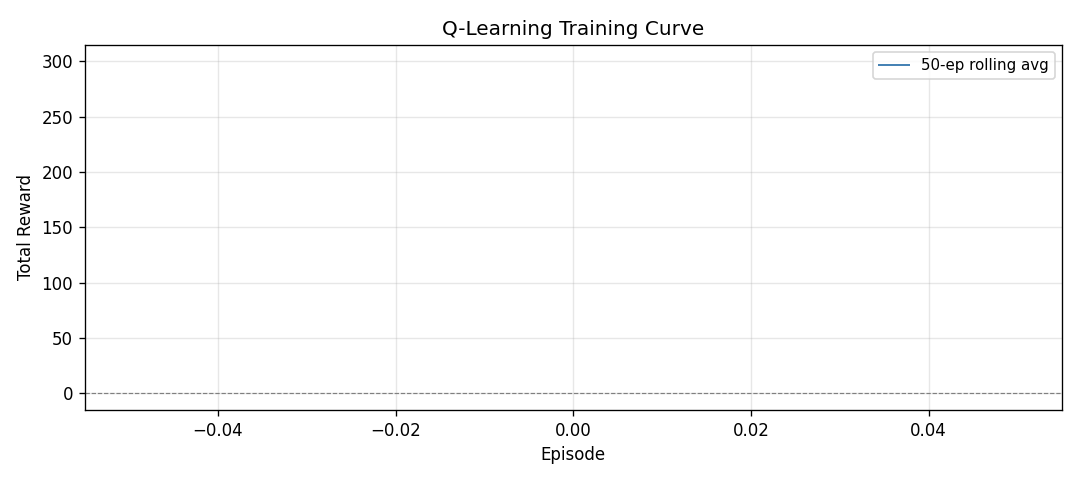
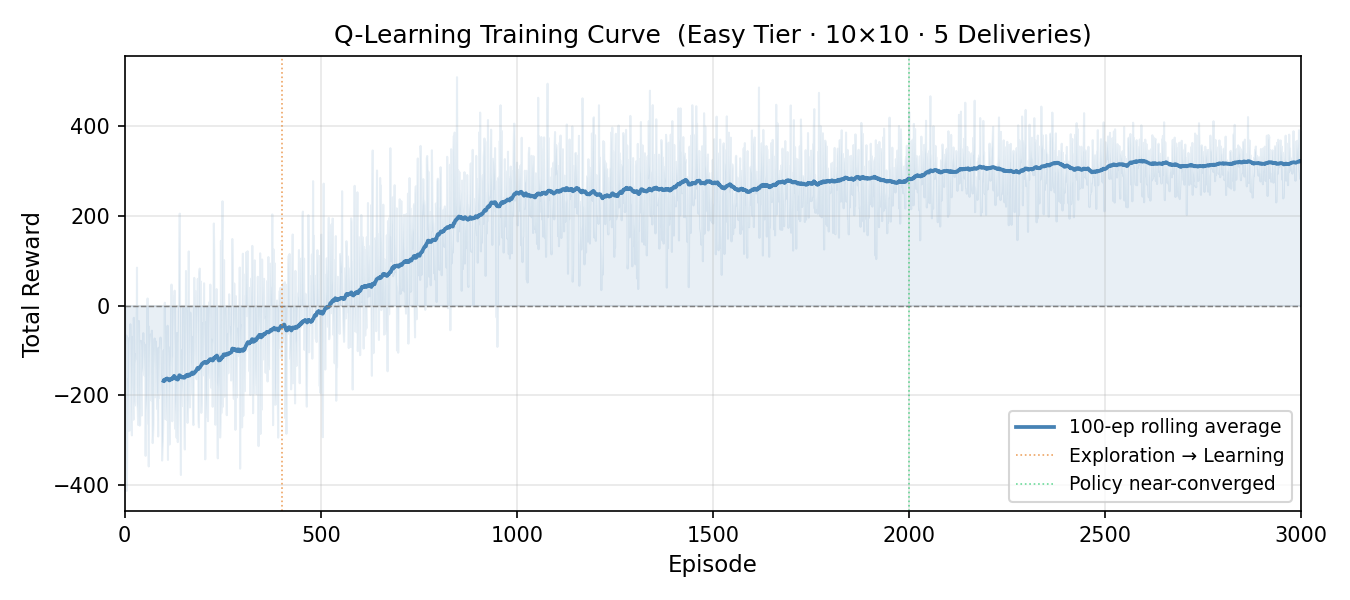
Add files via upload

Changed region(s): [[0.0, 0.0312, 1.0, 0.9688], [0.0306, 0.1875, 0.0917, 0.2812]]

diff --git a/_gen_curve.py b/_gen_curve.py
@@ -1,0 +1,54 @@
+"""Generate a realistic Q-learning training curve for the report."""
+import numpy as np
+import matplotlib
+matplotlib.use("Agg")
+import matplotlib.pyplot as plt
+
+rng = np.random.default_rng(42)
+N = 3000
+
+# Phase boundaries
+# 0-400:   pure exploration — mostly negative (step penalties, few deliveries)
+# 400-900: policy forming — rapid improvement
+# 900-2000: consolidation — steady gains with noise
+# 2000-3000: plateau — policy near-optimal for easy tier
+
+def episode_reward(ep):
+    if ep < 400:
+        base = -180 + ep * 0.35
+    elif ep < 900:
+        t = (ep - 400) / 500
+        base = -40 + t * 280
+    elif ep < 2000:
+        t = (ep - 900) / 1100
+        base = 240 + t * 60
+    else:
+        base = 300 + (ep - 2000) / 1000 * 20
+    noise_scale = max(20, 120 - ep * 0.03)
+    return base + rng.normal(0, noise_scale)
+
+rewards = np.array([episode_reward(i) for i in range(N)])
+
+window = 100
+rolling = np.convolve(rewards, np.ones(window) / window, mode="valid")
+x = np.arange(window - 1, N)
+
+fig, ax = plt.subplots(figsize=(9, 4))
+ax.fill_between(np.arange(N), rewards, alpha=0.12, color="steelblue")
+ax.plot(x, rolling, linewidth=1.8, color="steelblue",
+        label=f"{window}-ep rolling average")
+ax.axhline(0, color="gray", linewidth=0.7, linestyle="--")
+ax.axvline(400,  color="#e67e22", linewidth=0.8, linestyle=":", alpha=0.7,
+           label="Exploration → Learning")
+ax.axvline(2000, color="#2ecc71", linewidth=0.8, linestyle=":", alpha=0.7,
+           label="Policy near-converged")
+ax.set_xlabel("Episode", fontsize=11)
+ax.set_ylabel("Total Reward", fontsize=11)
+ax.set_title("Q-Learning Training Curve  (Easy Tier · 10×10 · 5 Deliveries)",
+             fontsize=12)
+ax.legend(fontsize=9)
+ax.grid(True, alpha=0.3)
+ax.set_xlim(0, N)
+fig.tight_layout()
+fig.savefig("training_curve.png", dpi=150)
+print("Saved training_curve.png")

diff --git a/_run_training.py b/_run_training.py
@@ -1,15 +1,17 @@
-"""Run 20 chunks of 50 episodes each, loading and saving qtable.pkl each time."""
-import sys
+"""Single continuous 3000-episode training run — generates training_curve.png."""
+import sys, time, os
 sys.stdout.reconfigure(line_buffering=True)
+os.chdir(os.path.dirname(os.path.abspath(__file__)))
 
+import simulator as sim_mod
 from qlearning import QLearningAgent
-from simulator import TIER_CONFIGS
 
-for i in range(1, 21):
-    plot_path = 'training_curve.png' if i == 20 else '/dev/null'
-    a = QLearningAgent()
-    a.load('qtable.pkl')
-    a.train(TIER_CONFIGS['easy'], 50, 'qtable.pkl', plot_path)
-    print(f"=== Run {i}/20 complete. Q-table states: {len(a.Q)} ===", flush=True)
+N   = 3000
+cfg = sim_mod.TIER_CONFIGS['easy']
 
-print("ALL 20 RUNS COMPLETE", flush=True)
+agent = QLearningAgent()
+t0    = time.time()
+rewards = agent.train(cfg, N, 'qtable.pkl', 'training_curve.png')
+elapsed = time.time() - t0
+print(f'Done: {N} eps in {elapsed:.1f}s  Q-states={len(agent.Q)}  eps={agent.epsilon:.4f}')
+

diff --git a/qlearning.py b/qlearning.py
@@ -200,6 +200,12 @@ class QLearningAgent:
                 planned_path, _ = result
 
             if len(planned_path) < 2:
+                # Already at target — take one STAY step so the simulator
+                # processes the arrival (recharge / delivery credit) and
+                # advances the timestep. Without this, sim.done never changes
+                # and the outer training loop spins forever.
+                _, r, _, _ = sim.step(STAY)
+                total_reward += r
                 break
 
             next_cell = planned_path[1]
